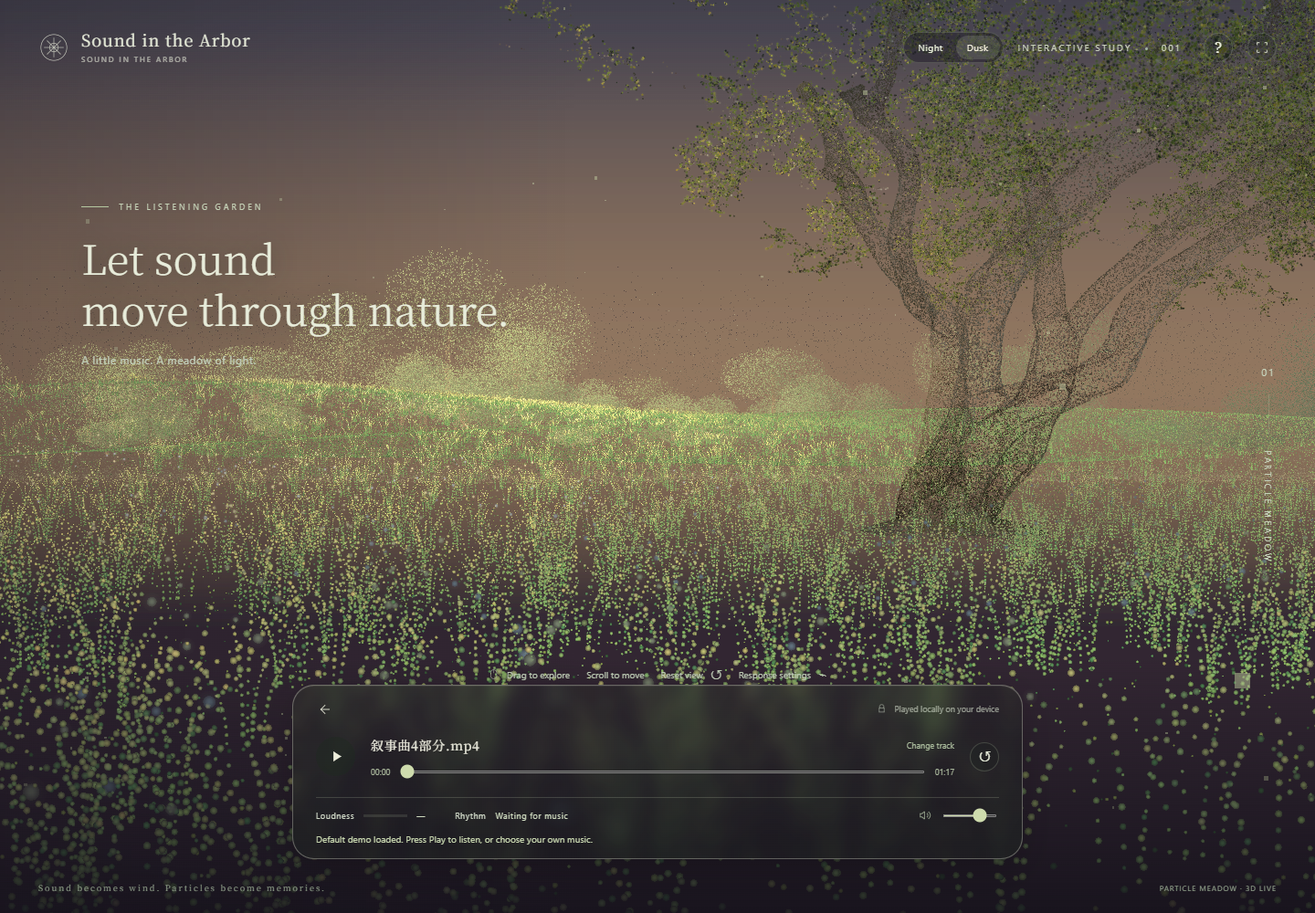
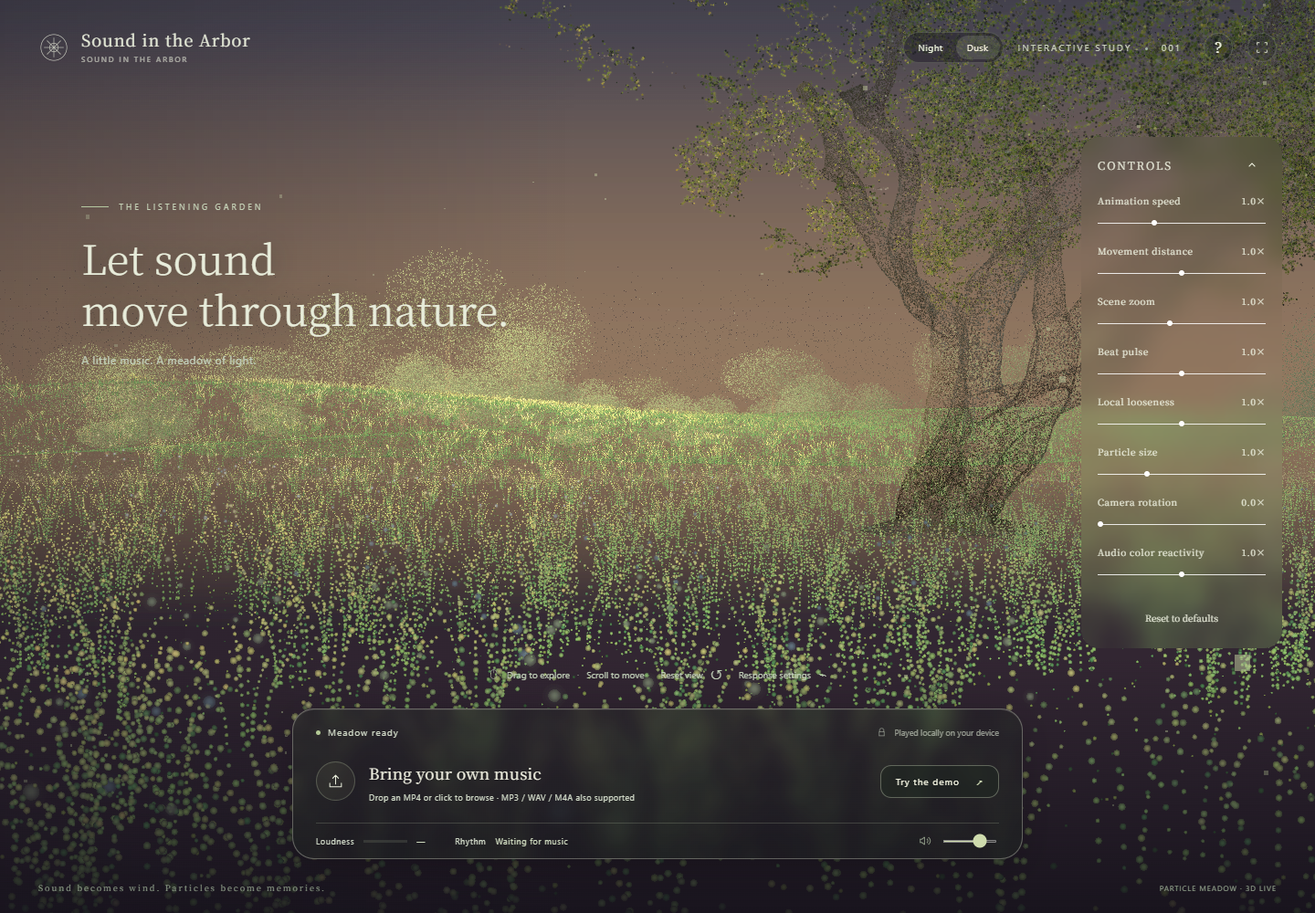
Update audio-reactive particle motion and demo

Changed region(s): [[0.8125, 0.155, 1.0, 0.775], [0.2188, 0.744, 0.7812, 0.93]]

diff --git a/dist/scene.js b/dist/scene.js
@@ -1,3 +1,4 @@
+import {extremeControlMix} from './controls.js';
 import * as THREE from './assets/three.module.js';
 import {buildMeadow} from './particle-meadow.js';
 import {createIndividualAttributes,individualMotionGLSL,sampleMotion} from './particle-motion.js';
@@ -104,7 +105,7 @@ export async function createGarden(canvas) {
       varying float vCaster;void main(){if(vCaster<.5||length(gl_PointCoord-.5)>.5)discard;gl_FragColor=packDepthToRGBA(gl_FragCoord.z);}`});
   const shadowScene=new THREE.Scene();shadowScene.background=new THREE.Color(1,1,1);const casters=new THREE.Points(geometry,shadowMaterial);casters.frustumCulled=false;shadowScene.add(casters);
   renderer.setRenderTarget(shadowTarget);renderer.render(shadowScene,shadowCamera);renderer.setRenderTarget(null);
-  const uniforms={uAmplitude:{value:0},uRelease:{value:0},uFlowFast:{value:0},uFlowSlow:{value:0},uBurstFast:{value:0},uBurstSlow:{value:0},uDriveSlow:{value:0},uFlow:{value:0},uBurst:{value:0},uDrive:{value:0},uDaylight:{value:1},uLow:{value:0},uMid:{value:0},uHigh:{value:0},uPhase:{value:0},uEnergy:{value:0},uScale:{value:800},uMotion:{value:.8},uPulse:{value:0},uFog:{value:new THREE.Color('#302732')},uShadowMap:{value:shadowTarget.texture},uShadowMatrix:{value:shadowMatrix},uSunDirection:{value:new THREE.Vector3()},uSunColor:{value:new THREE.Color()},uSkyColor:{value:new THREE.Color()},uGroundColor:{value:new THREE.Color()}};
+  const uniforms={uExtreme:{value:0},uSize:{value:1},uColorGain:{value:0},uAmplitude:{value:0},uRelease:{value:0},uFlowFast:{value:0},uFlowSlow:{value:0},uBurstFast:{value:0},uBurstSlow:{value:0},uDriveSlow:{value:0},uFlow:{value:0},uBurst:{value:0},uDrive:{value:0},uDaylight:{value:1},uLow:{value:0},uMid:{value:0},uHigh:{value:0},uPhase:{value:0},uEnergy:{value:0},uScale:{value:800},uMotion:{value:.8},uPulse:{value:0},uFog:{value:new THREE.Color('#302732')},uShadowMap:{value:shadowTarget.texture},uShadowMatrix:{value:shadowMatrix},uSunDirection:{value:new THREE.Vector3()},uSunColor:{value:new THREE.Color()},uSkyColor:{value:new THREE.Color()},uGroundColor:{value:new THREE.Color()}};
   updateLighting();
   const material=new THREE.ShaderMaterial({
     uniforms,vertexColors:true,transparent:true,depthWrite:true,depthTest:true,
@@ -112,7 +113,7 @@ export async function createGarden(canvas) {
       uniform float uDaylight;uniform vec3 uSunDirection,uSunColor,uSkyColor,uGroundColor;
       uniform mat4 uShadowMatrix;varying vec3 shadowPosition;
       attribute vec4 aIndividual;attribute float aMotionWeight;attribute float aSize;attribute float aMobility;attribute float aSeed;
-      uniform float uAmplitude,uRelease;uniform float uFlowFast,uFlowSlow,uBurstFast,uBurstSlow,uDriveSlow;uniform float uFlow,uBurst,uDrive;uniform float uPhase,uEnergy,uScale,uMotion,uPulse,uLow,uMid,uHigh;varying vec3 vColor;varying vec3 ambientColor;varying vec3 unlitColor;varying float vBokeh;varying float vPlantOpacity;varying float vDistance;
+      uniform float uExtreme;uniform float uSize;uniform float uAmplitude,uRelease;uniform float uFlowFast,uFlowSlow,uBurstFast,uBurstSlow,uDriveSlow;uniform float uFlow,uBurst,uDrive;uniform float uPhase,uEnergy,uScale,uMotion,uPulse,uLow,uMid,uHigh;varying vec3 vColor;varying vec3 ambientColor;varying vec3 unlitColor;varying float vBokeh;varying float vPlantOpacity;varying float vDistance;
       void main(){vec3 p=position+aDuskOffset*uDaylight;float wave=uPhase*aIndividual.w+aIndividual.x;
         float pick=fract(aIndividual.x*.731+aIndividual.z*.319);
         float pick2=fract(aIndividual.x*1.317+aIndividual.y*.719);
@@ -125,7 +126,7 @@ export async function createGarden(canvas) {
         float middleCover=exp(-pow((p.z+27.0)/23.0,2.0));
         gl_PointSize*=1.0+uDaylight*grass*middleCover*(.30-.38*aGrassTip);
         float sizeVariation=1.0+strength*(flow*(.15+pick*.85)+loosen*(pick2*.7+vBokeh*4.5));
-        gl_PointSize=min(gl_PointSize*sizeVariation,mix(22.0,38.0,vBokeh));
+        gl_PointSize=min(gl_PointSize*sizeVariation,mix(22.0,38.0,vBokeh))*uSize;
         vec3 N=normalize(mat3(modelMatrix)*aLightNormal);
         vec3 worldPosition=(modelMatrix*vec4(p,1.0)).xyz;
         shadowPosition=(uShadowMatrix*vec4(worldPosition,1.0)).xyz;
@@ -156,7 +157,7 @@ export async function createGarden(canvas) {
         }
       }`,
     fragmentShader:`#include <packing>
-      uniform float uDaylight;uniform sampler2D uShadowMap;varying vec3 shadowPosition;
+      uniform float uColorGain;uniform float uDaylight;uniform sampler2D uShadowMap;varying vec3 shadowPosition;
       uniform vec3 uFog;varying vec3 vColor;varying vec3 ambientColor;varying vec3 unlitColor;varying float vBokeh;varying float vPlantOpacity;varying float vDistance;
       void main(){vec2 uv=gl_PointCoord*2.0-1.0;float r=dot(uv,uv);if(r>1.0)discard;
         float alpha=min(1.0,exp(-r*1.5)*.95)*mix(1.0,.34,vBokeh);float fog=1.0-exp(-vDistance*vDistance*0.000025);
@@ -170,6 +171,7 @@ export async function createGarden(canvas) {
         }
         vec3 shaded=mix(unlitColor,mix(ambientColor,vColor,.35+.65*visibility),uDaylight);
         shaded*=mix(1.0,.78,vBokeh);
+        shaded*=vec3(1.0)+uColorGain*vec3(.35,.12,-.2);
         gl_FragColor=vec4(mix(shaded,uFog,fog),alpha);
         #include <tonemapping_fragment>
         #include <colorspace_fragment>
@@ -186,7 +188,7 @@ export async function createGarden(canvas) {
   air.setAttribute('position',new THREE.Float32BufferAttribute(airPositions,3));
   const airMaterial=new THREE.PointsMaterial({color:'#d8dfb2',size:.018,transparent:true,opacity:.4,depthWrite:false});
   const motes=new THREE.Points(air,airMaterial);scene.add(motes);
-  let yaw=0,pitch=0,distance=16.3,hoverX=0,hoverY=0,drag=null,targetYaw=0,targetPitch=0,phase=0,disposed=false,lastMotionTime=performance.now()/1000,lastMotionRate=1;
+  let yaw=0,pitch=0,distance=16.3,hoverX=0,hoverY=0,drag=null,targetYaw=0,targetPitch=0,phase=0,disposed=false,lastMotionTime=performance.now()/1000,lastMotionRate=1,rotationPhase=0;
   const reduced=matchMedia('(prefers-reduced-motion: reduce)').matches;
   let frameSamples=0,frameTotal=0;
   function reset(){targetYaw=0;targetPitch=0;distance=16.3;hoverX=hoverY=0;}
@@ -227,21 +229,27 @@ export async function createGarden(canvas) {
     });
   }
   window.gardenMotionDebug=()=>({enabled:debugOn,clock:phase,samples:debugData});
-  function render(dt,features,motion=.8){
+  function render(dt,features,motion=.8,controls={}){
     if(disposed)return;
     updateLighting();
     frameTotal+=dt;frameSamples++;
     if(frameSamples===180){if(frameTotal/frameSamples>.04&&renderer.getPixelRatio()>.85){renderer.setPixelRatio(Math.max(.85,renderer.getPixelRatio()-.15));resize();}frameSamples=0;frameTotal=0;}
     const smoothing=1-Math.exp(-dt*4);yaw+=((targetYaw+hoverX)-yaw)*smoothing;pitch+=((targetPitch+hoverY)-pitch)*smoothing;
-    camera.position.set(Math.sin(yaw)*distance,1.72+Math.sin(pitch)*distance,-10+Math.cos(yaw)*distance);
+    rotationPhase+=dt*(controls.rotation||0)*.15;
+    const viewYaw=yaw+Math.sin(rotationPhase)*.15*Math.min(1,controls.rotation||0),viewDistance=Math.max(8,Math.min(24,distance/(controls.zoom??1)));
+    camera.position.set(Math.sin(viewYaw)*viewDistance,1.72+Math.sin(pitch)*viewDistance,-10+Math.cos(viewYaw)*viewDistance);
     camera.lookAt(0,1.72,-10);
     uniforms.uFlowFast.value=features.flowFast||0;uniforms.uFlowSlow.value=features.flowSlow||0;
     uniforms.uBurstFast.value=features.burstFast||0;uniforms.uBurstSlow.value=features.burstSlow||0;uniforms.uDriveSlow.value=features.driveSlow||0;
     uniforms.uFlow.value=features.flow||0;uniforms.uBurst.value=features.burst||0;uniforms.uDrive.value=features.drive||0;
-    const motionNow=performance.now()/1000,motionRate=features.oscillatorRate||1;
+    const motionNow=performance.now()/1000,motionRate=(features.oscillatorRate||1)*(controls.animationSpeed??1);
     phase+=(motionNow-lastMotionTime)*(lastMotionRate+motionRate)*.5;lastMotionTime=motionNow;lastMotionRate=motionRate;
-    uniforms.uAmplitude.value=features.motionAmplitude||0;uniforms.uRelease.value=features.structuralRelease||0;
-    uniforms.uLow.value=features.low||0;uniforms.uMid.value=features.mid||0;uniforms.uHigh.value=features.high||0;uniforms.uPhase.value=phase;uniforms.uEnergy.value=features.energy;uniforms.uPulse.value=features.pulse;uniforms.uMotion.value=motion*(reduced?.3:1);
+    uniforms.uAmplitude.value=(features.motionAmplitude||0)*Math.max(0,1+((controls.beatPulse??1)-1)*(features.pulse||0)*.35);uniforms.uRelease.value=(features.structuralRelease||0)*(controls.looseness??1);
+    uniforms.uSize.value=controls.particleSize??1;uniforms.uColorGain.value=((controls.color??1)-1)*(features.energy||0)*.5;
+    uniforms.uLow.value=features.low||0;uniforms.uMid.value=features.mid||0;uniforms.uHigh.value=features.high||0;uniforms.uPhase.value=phase;uniforms.uEnergy.value=features.energy;uniforms.uPulse.value=features.pulse;uniforms.uMotion.value=motion*(controls.distance??1)*(reduced?.3:1);
+    const extremeTarget=extremeControlMix(controls)*Math.min(1,(features.motionAmplitude||0)/.2);
+    uniforms.uExtreme.value+=(extremeTarget-uniforms.uExtreme.value)*(1-Math.exp(-dt*2.5));
+    if(extremeTarget===0&&uniforms.uExtreme.value<1e-5)uniforms.uExtreme.value=0;
     updateDebug(features);
     motes.position.y=Math.sin(phase*.07)*.07;airMaterial.opacity=.28+features.energy*.2;
     renderer.setRenderTarget(bloomTarget);renderer.render(scene,camera);renderer.setRenderTarget(null);renderer.render(bloomScene,bloomCamera);
@@ -251,5 +259,5 @@ export async function createGarden(canvas) {
   function setTimeOfDay(mode){
     const daylight=mode==='dusk';uniforms.uDaylight.value=daylight?1:0;sky.visible=daylight;
   }
-  return {render,reset,setTimeOfDay,count:positions.length/3,motionInfo:()=>({flow:uniforms.uFlow.value,burst:uniforms.uBurst.value,drive:uniforms.uDrive.value,restPositionsImmutable:true,flowFast:uniforms.uFlowFast.value,flowSlow:uniforms.uFlowSlow.value,burstFast:uniforms.uBurstFast.value,burstSlow:uniforms.uBurstSlow.value,individualAttributes:true,trunkParticipates:true,clock:uniforms.uPhase.value}),getCamera:()=>camera.position.toArray(),dispose(){disposed=true;observer.disconnect();shadowTarget.dispose();shadowMaterial.dispose();sky.geometry.dispose();skyMaterial.dispose();bloomTarget.dispose();bloomMaterial.dispose();bloomQuad.geometry.dispose();geometry.dispose();material.dispose();glowMaterial.dispose();air.dispose();airMaterial.dispose();renderer.dispose();}};
+  return {render,reset,setTimeOfDay,count:positions.length/3,motionInfo:()=>({extremeMix:uniforms.uExtreme.value,particleSize:uniforms.uSize.value,motionScale:uniforms.uMotion.value,colorGain:uniforms.uColorGain.value,amplitude:uniforms.uAmplitude.value,localLooseness:uniforms.uRelease.value,flow:uniforms.uFlow.value,burst:uniforms.uBurst.value,drive:uniforms.uDrive.value,restPositionsImmutable:true,flowFast:uniforms.uFlowFast.value,flowSlow:uniforms.uFlowSlow.value,burstFast:uniforms.uBurstFast.value,burstSlow:uniforms.uBurstSlow.value,individualAttributes:true,trunkParticipates:true,clock:uniforms.uPhase.value}),getCamera:()=>camera.position.toArray(),dispose(){disposed=true;observer.disconnect();shadowTarget.dispose();shadowMaterial.dispose();sky.geometry.dispose();skyMaterial.dispose();bloomTarget.dispose();bloomMaterial.dispose();bloomQuad.geometry.dispose();geometry.dispose();material.dispose();glowMaterial.dispose();air.dispose();airMaterial.dispose();renderer.dispose();}};
 }

diff --git a/dist/style.css b/dist/style.css
@@ -30,3 +30,34 @@
 
 /* Compact unframed return arrow; preserve the original player dimensions. */
 .music-panel{width:min(800px,calc(100% - 88px));padding:18px 25px 12px}.music-return{width:20px;height:14px;min-height:0;padding:0;border:0;border-radius:0;background:transparent}.music-return svg{width:16px;height:16px}.music-return:hover{background:transparent;color:#fff}.panel-topline{min-height:14px}.scene-tools{bottom:244px}@media(max-width:700px){.music-panel{width:calc(100% - 36px);padding:15px 17px 12px}.scene-tools{bottom:237px}}@media(min-width:1600px){.scene-tools{bottom:260px}}@media(max-height:650px) and (min-width:701px){.scene-tools{bottom:227px}}
+
+/* Transparent visual controls and hover-revealed music player. */
+.visual-controls{position:absolute;right:30px;top:150px;width:216px;max-height:calc(100svh - 195px);overflow:auto;z-index:8;background:transparent;color:#edf0df;text-shadow:0 1px 5px #000,0 1px 15px #0009;font-size:10px;padding:6px 0 12px;border-left:1px solid #e1e8ce30;padding-left:18px}.visual-controls-heading{display:flex;align-items:center;justify-content:space-between;margin-bottom:16px}.visual-controls h2{font:600 12px/1.4 'Segoe UI',sans-serif;letter-spacing:2px;margin:0}.visual-controls-heading button{font-size:22px;width:30px;height:30px}.visual-controls label{display:flex;justify-content:space-between;gap:8px;margin:15px 0 9px;letter-spacing:.6px}.visual-controls output{font-variant-numeric:tabular-nums}.visual-controls input{display:block;width:100%;margin:0;height:4px}.visual-reset{display:block;border:1px solid #e2e8cc55;border-radius:10px;width:100%;padding:10px;margin-top:22px;font-size:10px;background:transparent}.visual-reset:hover{background:#e2e8cc15}
+.player-dock{position:absolute;bottom:59px;left:50%;transform:translateX(-50%);width:min(800px,calc(100% - 88px));z-index:6;pointer-events:auto}.player-dock .music-panel{position:absolute;bottom:0;left:0;transform:none;width:100%;transition:opacity .25s,transform .3s;z-index:1}.player-reveal{display:none;position:absolute;bottom:0;left:50%;transform:translateX(-50%);border:1px solid #dce7bf50;border-radius:18px;padding:9px 20px;background:#18221c50;backdrop-filter:blur(7px);font-size:11px;white-space:nowrap}.player-collapsed .music-panel{opacity:0;pointer-events:none;transform:translateY(12px);visibility:hidden}.player-collapsed .player-reveal{display:block}
+@media(min-width:1200px){.visual-controls{right:36px;width:220px}}
+@media(min-width:1600px){.player-dock{bottom:75px}}
+@media(max-width:700px){.visual-controls{right:20px;top:118px;width:186px;max-height:calc(100svh - 210px);padding-left:12px}.visual-controls-heading{margin-bottom:4px}.visual-controls label{font-size:9px;margin-top:12px}.player-dock{width:calc(100% - 36px);bottom:55px}}
+@media(max-height:650px) and (min-width:701px){.player-dock{bottom:45px}.visual-controls{top:108px;max-height:calc(100svh - 145px)}}
+
+/* Thin white controls sliders. */
+.visual-controls input[type=range]{appearance:none;-webkit-appearance:none;background:transparent;accent-color:#fff;height:16px;cursor:pointer}.visual-controls input[type=range]::-webkit-slider-runnable-track{height:1px;border:0;background:rgba(255,255,255,.85)}.visual-controls input[type=range]::-webkit-slider-thumb{appearance:none;-webkit-appearance:none;width:6px;height:6px;border:0;border-radius:50%;background:#fff;margin-top:-2.5px;box-shadow:none}.visual-controls input[type=range]::-moz-range-track{height:1px;border:0;background:rgba(255,255,255,.85)}.visual-controls input[type=range]::-moz-range-progress{height:1px;background:#fff}.visual-controls input[type=range]::-moz-range-thumb{width:6px;height:6px;border:0;border-radius:50%;background:#fff}
+
+/* Controls typography follows the scene title; white interaction states. */
+.visual-controls,.visual-controls h2,.visual-controls button,.visual-controls label,.visual-controls output{font-family:"Noto Serif SC","Songti SC",SimSun,serif;font-weight:300;text-shadow:none}.visual-controls h2{font-weight:300}.visual-controls input[type=range]{accent-color:#fff;color:#fff}.visual-controls input[type=range]:focus-visible{outline:1px solid rgba(255,255,255,.8);outline-offset:5px}.visual-controls input[type=range]::-webkit-slider-thumb:active{background:#fff}.visual-controls button:focus-visible{outline:1px solid #fff}
+
+.visual-controls-heading{cursor:pointer}.visual-controls-heading button{font-weight:300;line-height:1;font-size:20px}.visual-controls-heading:hover{color:#fff}
+
+/* Rounded frosted controls without an outlined frame. */
+.visual-controls{border:0;border-left:0;border-radius:20px;padding:16px 18px;background:rgba(24,30,28,.24);backdrop-filter:blur(12px);-webkit-backdrop-filter:blur(12px);box-shadow:0 8px 28px rgba(0,0,0,.10)}.visual-reset{border:0;border-radius:12px;background:rgba(235,240,221,.06)}.visual-reset:hover{background:rgba(235,240,221,.12)}@media(max-width:700px){.visual-controls{padding:12px 14px}}
+
+/* White translucent glass controls. */
+.visual-controls{background:rgba(255,255,255,.16)}
+
+/* Colorless glass: blur the scene without adding any color layer. */
+.visual-controls{background:transparent;box-shadow:none}.visual-reset{background:transparent}.visual-reset:hover{background:transparent}
+
+/* Collapsed controls leave only the right-hand circular arrow. */
+.visual-controls.controls-collapsed{width:32px;height:32px;padding:0;border:0;border-radius:50%;background:transparent;box-shadow:none;backdrop-filter:none;-webkit-backdrop-filter:none;overflow:visible}.controls-collapsed .visual-controls-heading{margin:0;width:32px;height:32px}.controls-collapsed .visual-controls-heading h2{display:none}.controls-collapsed #toggleControls{display:grid;place-items:center;width:32px;height:32px;padding:0;border:1px solid rgba(242,246,232,.55);border-radius:50%;background:transparent;font-size:17px}.controls-collapsed #toggleControls:hover{background:rgba(255,255,255,.07)}
+
+/* SVG chevron is centered independently of font metrics. */
+#toggleControls{display:grid;place-items:center;padding:0}#toggleControls svg{display:block;width:16px;height:16px;fill:none;stroke:currentColor;stroke-width:1.5;stroke-linecap:round;stroke-linejoin:round}.controls-collapsed #toggleControls svg{width:16px;height:16px;transform:translateY(-.33px)}

diff --git a/dist/index.html b/dist/index.html
@@ -51,13 +51,14 @@
       <div class="panel-bottom"><div class="audio-readings"><span>Loudness <span class="meter" aria-hidden="true"><i id="energyMeter"></i></span><span id="energyText">—</span></span><span>Rhythm <span id="tempoText">Waiting for music</span></span></div><label class="volume-control" for="volume"><svg viewBox="0 0 24 24" aria-hidden="true"><path d="M11 5 6 9H3v6h3l5 4zM15 8c3 2 3 6 0 8m3-11c5 4 5 10 0 14"/></svg><input id="volume" type="range" min="0" max="1" value="0.75" step="0.01" aria-label="Playback volume"></label></div>
       <p id="message" class="message" role="status" aria-live="polite"></p>
     </section>
+<aside id="visualControls" class="visual-controls" aria-label="Visual controls"><div class="visual-controls-heading"><h2>CONTROLS</h2><button id="toggleControls" aria-expanded="true" aria-label="Collapse controls">−</button></div><div id="visualControlsBody"><label for="vc-animationSpeed">Animation speed<output id="vo-animationSpeed">1.0×</output></label><input id="vc-animationSpeed" type="range" min="0" max="3" step="0.05" value="1"><label for="vc-distance">Movement distance<output id="vo-distance">1.0×</output></label><input id="vc-distance" type="range" min="0" max="2" step="0.05" value="1"><label for="vc-zoom">Scene zoom<output id="vo-zoom">1.0×</output></label><input id="vc-zoom" type="range" min="0.7" max="1.4" step="0.05" value="1"><label for="vc-beatPulse">Beat pulse<output id="vo-beatPulse">1.0×</output></label><input id="vc-beatPulse" type="range" min="0" max="2" step="0.05" value="1"><label for="vc-looseness">Local looseness<output id="vo-looseness">1.0×</output></label><input id="vc-looseness" type="range" min="0" max="2" step="0.05" value="1"><label for="vc-particleSize">Particle size<output id="vo-particleSize">1.0×</output></label><input id="vc-particleSize" type="range" min="0.4" max="2.5" step="0.05" value="1"><label for="vc-rotation">Camera rotation<output id="vo-rotation">0.0×</output></label><input id="vc-rotation" type="range" min="0" max="2" step="0.05" value="0"><label for="vc-color">Audio color reactivity<output id="vo-color">1.0×</output></label><input id="vc-color" type="range" min="0" max="2" step="0.05" value="1"><button id="resetVisualControls" class="visual-reset">Reset to defaults</button></div></aside>
     <footer class="footer"><span>Sound becomes wind. Particles become memories.</span><span id="renderStatus">Preparing the meadow…</span></footer>
     <div id="dropOverlay" class="drop-overlay" hidden><div><span>＋</span><p>Drop your music here</p><small>Release to load · Your file is never uploaded</small></div></div>
     <div id="renderError" class="render-error" hidden><h2>The meadow could not be displayed</h2><p>This scene requires WebGL. Use a browser with hardware acceleration enabled, or reload the page.</p><button onclick="location.reload()">Reload</button></div>
     <input id="fileInput" type="file" accept=".mp4,.m4a,.mp3,.wav,.ogg,.webm,audio/*,video/mp4,video/webm" hidden>
     <video id="media" preload="metadata" playsinline hidden></video>
   </main>
-  <dialog id="helpDialog"><button id="closeHelp" class="icon-button" aria-label="Close guide">×</button><span class="eyebrow">A SMALL GUIDE</span><h2>Listen. The meadow is breathing.</h2><p>Drop or choose a local MP4 or audio file, then press Play.</p><ul><li>Louder sound creates larger points; softer sound creates smaller points.</li><li>Denser note onsets increase movement speed. Sparse or sustained sound lets it settle.</li><li>Drag or use arrow keys to explore. Scroll to move closer. Press R to reset.</li><li>Press Space to play or pause. Response settings adjust sensitivity and movement.</li></ul><p class="help-note">Rhythm is estimated live and may take several seconds to adapt to complex or legato music. Files remain in this browser and must be selected again after a reload.</p><button id="helpDone" class="demo-button">Enter the meadow →</button></dialog>
+  <dialog id="helpDialog"><button id="closeHelp" class="icon-button" aria-label="Close guide">×</button><span class="eyebrow">A SMALL GUIDE</span><h2>Listen. The meadow is breathing.</h2><p>Drop or choose a local MP4 or audio file, then press Play.</p><ul><li>Louder sound creates larger points; softer sound creates smaller points.</li><li>Music changes local movement amplitude. Controls let you adjust speed and distance.</li><li>Drag or use arrow keys to explore. Scroll to move closer. Press R to reset.</li><li>Press Space to play or pause. Response settings adjust sensitivity and movement.</li></ul><p class="help-note">Rhythm is estimated live and may take several seconds to adapt to complex or legato music. Files remain in this browser and must be selected again after a reload.</p><button id="helpDone" class="demo-button">Enter the meadow →</button></dialog>
   <script type="module" src="./app.js"></script>
 </body>
 </html>

diff --git a/dist/controls.js b/dist/controls.js
@@ -1,0 +1,26 @@
+export const visualControls={animationSpeed:1,distance:1,zoom:1,beatPulse:1,looseness:1,particleSize:1,rotation:0,color:1};
+export function initVisualControls(media){
+ const defaults={...visualControls};
+ for(const key of Object.keys(defaults)){const slider=document.getElementById('vc-'+key),out=document.getElementById('vo-'+key);slider.addEventListener('input',()=>{visualControls[key]=Number(slider.value);out.textContent=visualControls[key].toFixed(1)+'×';});}
+ document.getElementById('resetVisualControls').addEventListener('click',()=>{for(const [key,value]of Object.entries(defaults)){visualControls[key]=value;document.getElementById('vc-'+key).value=value;document.getElementById('vo-'+key).textContent=value.toFixed(1)+'×';}});
+ const body=document.getElementById('visualControlsBody'),toggle=document.getElementById('toggleControls');
+ function expand(open){document.getElementById('visualControls').classList.toggle('controls-collapsed',!open);body.hidden=!open;toggle.setAttribute('aria-expanded',String(open));toggle.setAttribute('aria-label',open?'Collapse controls':'Expand controls');toggle.innerHTML='<svg viewBox="0 0 24 24" aria-hidden="true"><path d="'+(open?'M7 14l5-5 5 5':'M7 10l5 5 5-5')+'"/></svg>';toggle.title=open?'Collapse controls':'Expand controls';}
+ expand(innerWidth>700);toggle.addEventListener('click',()=>expand(body.hidden));
+ document.querySelector('.visual-controls-heading').addEventListener('click',e=>{if(!e.target.closest('button'))expand(body.hidden);});
+ const panel=document.querySelector('.music-panel'),dock=document.createElement('div');dock.id='playerDock';dock.className='player-dock';panel.before(dock);dock.append(panel);
+ const tab=document.createElement('button');tab.className='player-reveal';tab.textContent='Music player ↑';tab.setAttribute('aria-label','Expand music player');tab.setAttribute('aria-expanded','true');dock.append(tab);
+ let timer,pointer=false,touchOpen=false;
+ function reveal(open){dock.classList.toggle('player-collapsed',!open&&!media.paused&&!media.ended);tab.setAttribute('aria-expanded',String(!dock.classList.contains('player-collapsed')));}
+ function schedule(){clearTimeout(timer);timer=setTimeout(()=>{if(!pointer&&!dock.contains(document.activeElement)&&!touchOpen)reveal(false);},1800);}
+ dock.addEventListener('pointerenter',e=>{if(e.pointerType!=='touch'){pointer=true;clearTimeout(timer);reveal(true);}});
+ dock.addEventListener('pointerleave',()=>{pointer=false;touchOpen=false;schedule();});
+ dock.addEventListener('focusin',()=>reveal(true));dock.addEventListener('focusout',schedule);
+ tab.addEventListener('click',()=>{touchOpen=true;reveal(true);});
+ media.addEventListener('play',()=>{if(dock.contains(document.activeElement))document.activeElement.blur();touchOpen=false;schedule();});
+ for(const name of ['pause','ended','emptied'])media.addEventListener(name,()=>{clearTimeout(timer);reveal(true);});
+ document.addEventListener('pointerdown',e=>{if(!dock.contains(e.target)){touchOpen=false;schedule();}});
+ const observer=new ResizeObserver(()=>dock.style.height=panel.getBoundingClientRect().height+'px');observer.observe(panel);
+ window.gardenVisualControls=()=>({...visualControls});
+}
+
+export function extremeControlMix(c){const smooth=x=>{x=Math.max(0,Math.min(1,x));return x*x*(3-2*x);};return Math.min(smooth(((c.animationSpeed??1)-1.6)/1.4),smooth(((c.distance??1)-1.3)/.7),smooth(((c.looseness??1)-1.3)/.7));}

diff --git a/dist/expressive-motion.js b/dist/expressive-motion.js
@@ -1,29 +1,22 @@
 const clamp=x=>Math.max(0,Math.min(1,x));
 const follow=(a,b,dt,tau)=>b+(a-b)*Math.exp(-dt/tau);
+// Music changes local activity, never a timed scatter/reassembly state.
 export class ExpressiveMotion{
  constructor(){this.output={};this.reset();}
- reset(){this.sustain=0;this.fastRhythm=0;this.triggerCount=0;Object.assign(this.output,{oscillatorRate:1,rms:0,smoothedEnergy:0,motionAmplitude:0,structuralRelease:0,flow:0,burst:0,drive:0,flowFast:0,flowSlow:0,burstFast:0,burstSlow:0,driveSlow:0});}
+ reset(){this.triggerCount=0;Object.assign(this.output,{oscillatorRate:1,rms:0,smoothedEnergy:0,motionAmplitude:0,structuralRelease:0,flow:0,burst:0,drive:0,flowFast:0,flowSlow:0,burstFast:0,burstSlow:0,driveSlow:0});}
  update(wave,spectrum,dt,features={},active=true){
  dt=Math.max(0,Math.min(.5,dt));const o=this.output;let rms=0;
  if(active&&wave){for(const x of wave)rms+=x*x;rms=Math.sqrt(rms/Math.max(1,wave.length));}
- // Absolute dBFS calibration: no peak normalization of quiet passages.
- const energy=active?clamp((20*Math.log10(Math.max(1e-8,rms))+48)/42):0;
- o.rms=rms;o.smoothedEnergy=follow(o.smoothedEnergy,energy,dt,energy>o.smoothedEnergy?.18:.7);
- this.sustain=follow(this.sustain,o.smoothedEnergy,dt,o.smoothedEnergy>this.sustain?3:1.1);
- const audible=active?clamp(rms/.003):0;
- const amplitude=audible*(.035+.5*o.smoothedEnergy+.16*o.smoothedEnergy*clamp(features.pulse||0));
- const high=clamp((this.sustain-.54)/.22);
- // Require continuous fast activity, not a single pulse. Weak music keeps its existing response.
- const fast=active&&features.ready!==false?clamp(((features.speed||0)-.52)/.28):0;
- this.fastRhythm=follow(this.fastRhythm,fast,dt,fast>this.fastRhythm?1.1:.6);
- const gate=clamp((o.smoothedEnergy-.50)/.18);
- const rhythmicRelease=this.fastRhythm*this.fastRhythm*gate;
- const release=Math.max(high*high*(3-2*high),rhythmicRelease);
- o.oscillatorRate=follow(o.oscillatorRate,1+3*this.fastRhythm*gate,dt,.3);
- o.motionAmplitude=follow(o.motionAmplitude,amplitude,dt,amplitude>o.motionAmplitude?.16:.65);
- o.structuralRelease=follow(o.structuralRelease,active?release:0,dt,release>o.structuralRelease?1.8:.85);
- if(!active&&o.motionAmplitude<1e-5&&o.structuralRelease<1e-5){o.motionAmplitude=0;o.structuralRelease=0;}
- o.flow=o.flowFast=o.flowSlow=o.motionAmplitude;o.burst=o.burstFast=o.burstSlow=o.structuralRelease;
- o.drive=o.driveSlow=o.smoothedEnergy;o.normalizedEnergy=energy;return o;
+ // Fixed logarithmic range suited to the provided recording; no recent-peak normalization.
+ const energy=active?clamp(Math.log1p(rms/.006)/Math.log1p(.12/.006)):0;
+ const audible=active?clamp((rms-.0005)/.0025):0;
+ o.rms=rms;o.smoothedEnergy=follow(o.smoothedEnergy,energy,dt,energy>o.smoothedEnergy?.22:.45);
+ const target=audible*(.035+.9*o.smoothedEnergy);
+ o.motionAmplitude=follow(o.motionAmplitude,target,dt,target>o.motionAmplitude?.28:.48);
+ // Compatibility metric now means small local looseness, not structural dissolution.
+ o.structuralRelease=follow(o.structuralRelease,active?o.smoothedEnergy*.2*audible:0,dt,.6);
+ if(o.motionAmplitude<1e-5&&o.structuralRelease<1e-5&&(!active||rms<.0005)){o.motionAmplitude=0;o.structuralRelease=0;}
+ o.oscillatorRate=1;o.flow=o.flowFast=o.flowSlow=o.motionAmplitude;
+ o.burst=o.burstFast=o.burstSlow=o.structuralRelease;o.drive=o.driveSlow=o.smoothedEnergy;o.normalizedEnergy=energy;return o;
  }
 }

diff --git a/dist/particle-motion.js b/dist/particle-motion.js
@@ -8,8 +8,9 @@ export function sampleMotion(a,group,time,amplitude,release,motion=1,weight=1){
  const [phase,sensitivity,pick,frequency]=a,grass=group<.5,vertical=pick>(grass?.28:.75);
  const raw=[vertical?.22*Math.sin(phase*2.31):1,vertical?1:.23*Math.sin(phase*3.17),0];
  const norm=Math.hypot(...raw),axis=raw.map(x=>x/norm);
- const range=(grass?1.2:2.2)*amplitude+release*release*(grass?7:14);
- const extent=range*(.65+pick*.7)*sensitivity*motion*(group>2.5?0:1)*(group===1&&weight<.1?1.7:1);
+ const range=(grass?.55:.75)*amplitude+Math.min(.4,release)*(grass?.12:.18);
+ const radius=grass?.65:group===1&&weight<.1?.22:.85;
+ const extent=Math.min(radius,range*(.65+pick*.7)*sensitivity)*motion*(group>2.5?0:1);
  return {axis,extent,offset:axis.map(x=>x*extent*Math.sin(time*frequency*1.6+phase))};
 }
 export const individualMotionGLSL=`
@@ -18,7 +19,18 @@ export const individualMotionGLSL=`
  float phase=aIndividual.x;
  bool vertical=aIndividual.z>mix(.75,.28,grass);
  vec3 axis=normalize(vec3(vertical?.22*sin(phase*2.31):1.0,vertical?1.0:.23*sin(phase*3.17),0.0));
- float range=mix(2.2,1.2,grass)*uAmplitude+uRelease*uRelease*mix(14.0,7.0,grass);
- float extent=range*(.65+aIndividual.z*.7)*aIndividual.y*strength*(aMobility>.5&&aMobility<1.5&&aMotionWeight<.1?1.7:1.0);
+ float range=mix(.75,.55,grass)*uAmplitude+min(.4,uRelease)*mix(.18,.12,grass);
+ float radius=grass>.5?.65:(aMobility>.5&&aMobility<1.5&&aMotionWeight<.1?.22:.85);
+ float extent=min(radius,range*(.65+aIndividual.z*.7)*aIndividual.y)*strength;
  p+=axis*(extent*sin(uPhase*aIndividual.w*1.6+phase));
+ // Explicit user-selected extremes only; defaults retain the fixed-axis reference motion.
+ vec3 rest=position+aDuskOffset*uDaylight;
+ float t=uPhase*aIndividual.w;
+ vec3 weave=vec3(sin(t*.83+phase),sin(t*1.13+phase*2.7),sin(t*.61+phase*1.9));
+ vec3 wild=rest+weave*vec3(18.0,12.0,6.0)*aIndividual.y*min(1.0,strength);
+ vec3 toward=cameraPosition-rest;float reach=length(toward);
+ float front=step(.85,aIndividual.z)*min(1.0,strength);
+ float travel=max(0.0,reach-2.5)*max(0.0,sin(t*.9+phase));
+ wild=mix(wild,rest+toward/max(.001,reach)*travel,front*.92);
+ p=mix(p,wild,uExtreme*step(.001,aMotionWeight));
 `;

diff --git a/dist/app.js b/dist/app.js
@@ -1,3 +1,4 @@
+import {visualControls,initVisualControls} from './controls.js';
 import {createGarden} from './scene.js';
 import {AudioFeatures} from './audio-features.js';
 import {ExpressiveMotion} from './expressive-motion.js';
@@ -6,6 +7,7 @@ const media=$('media'),fileInput=$('fileInput'),features=new AudioFeatures(),exp
 let garden,audioContext,analyser,source,gainNode,wave,spectrum,objectURL,loadId=0,playing=false,loading=false,lastFrame=performance.now(),lastUI=0;
 let currentFile=null,noAudioSince=null,rhythmNode=null,rhythmData=null,lastAudioTime=null;
 const state={energy:0,speed:0,pulse:0,ready:false};
+initVisualControls(media);
 const format=s=>Number.isFinite(s)?`${Math.floor(s/60).toString().padStart(2,'0')}:${Math.floor(s%60).toString().padStart(2,'0')}`:'00:00';
 function message(text='',error=false){$('message').textContent=text;$('message').classList.toggle('error',error);}
 function status(text){$('status').textContent=text;$('statusDot').classList.toggle('playing',playing);}
@@ -95,7 +97,7 @@ function frame(now){
     if(state.energy<.012){noAudioSince??=audioContext.currentTime;if(audioContext.currentTime-noAudioSince>7)message('No sound detected: this may be a silent passage or an MP4 without a usable audio track. Try another file.');}else{if(noAudioSince&&$('message').textContent.startsWith('No sound detected'))message();noAudioSince=null;}
   }else {Object.assign(state,features.idle(dt));for(const key of ['low','mid','high'])state[key]=(state[key]||0)*Math.exp(-dt*4);}
   Object.assign(state,expressive.update(wave,spectrum,motionDt,state,!!(playing&&analyser&&audioContext?.state==='running'&&!media.seeking)));
-  garden?.render(dt,state,Number($('motion').value));
+  garden?.render(dt,state,Number($('motion').value),visualControls);
   if(now-lastUI>120){
     lastUI=now;$('energyMeter').style.transform=`scaleX(${state.energy.toFixed(3)})`;
     $('energyText').textContent=playing?(state.energy<.12?'Soft':state.energy<.4?'Medium':'Strong'):'—';

diff --git a/README.md b/README.md
@@ -11,7 +11,7 @@ This revision focuses on three connected problems: grass density and volume, con
 - **Lighting choice:** Night retains the dark purple background and luminous point-cloud style. Dusk uses a low-angle warm directional light, environment fill, approximate particle normals, and a muted warm sky. After visual review, a stronger yellow-green treatment was rejected in favor of softer gray-gold transitions. Tree and grass shadows use a static point-cloud depth map.
 - **Player surface:** frosted glass softly reveals a little of the particle background while keeping labels and controls readable.
 
-![Current Dusk scene and music player with the top-left return arrow](docs/screenshot.png)
+![Current Dusk scene with the particle controls panel and music player](docs/screenshot.png)
 
 [Night mode](docs/night.png) · [Terrain before](docs/terrain-before.png) · [Terrain after, same camera](docs/terrain-after.png)
 
@@ -19,7 +19,20 @@ This revision focuses on three connected problems: grass density and volume, con
 
 Building on the existing player, a small, unframed arrow now appears in its top-left corner after loading the demo or a personal track, replacing the status text in that position. Selecting it stops playback and returns to **Bring your own music**, where another local recording can be selected. The panel keeps its original width, with a more transparent background and clearer rounded corners. The existing scene, lighting modes, camera controls and playback controls are retained.
 
-The screenshot above shows the current saved interface. See also the [current mobile player](docs/mobile.png). The recent experimental stronger breakup and near-camera particle changes were reverted; this saved version retains the preceding particle behavior.
+The screenshot above shows the current saved interface. See also the [current mobile player](docs/mobile.png). The default response preserves the landscape structure. Wider interwoven movement and near-camera motion are available only through deliberate extreme settings in the new Controls panel.
+
+## Particle controls and an unobstructed listening view
+
+In response to users asking for more control over the particle experience, a **Controls** panel has been added on the right. Listeners can adjust animation speed, movement distance, scene zoom, beat pulse, local looseness, particle size, camera rotation and audio color reactivity while music plays. **Reset to defaults** restores the original settings. The panel uses fine white sliders, the same serif typeface as the main title, and a colorless frosted background with rounded corners.
+
+Both panels can be folded away to reduce visual obstruction and support a more immersive audiovisual experience:
+
+- **Controls panel:** select the title row or arrow to collapse it. Only a small circular arrow remains on the right; select it to reopen the panel. The panel starts collapsed on smaller screens.
+- **Music player:** during playback, it automatically folds away after a short delay when the pointer is outside its area. Moving the pointer back into the original player area reveals it; moving away lets it fold again. Pausing keeps playback controls visible. On touchscreens, select the small **Music player** tab to reveal them.
+
+Default settings retain bounded, independent particle movement around a stable landscape. Raising animation speed, movement distance and local looseness near their maximum values deliberately blends in wider, interwoven trajectories and a sparse near-camera approach. Lowering these settings or resetting them smoothly restores the default movement. This effect is under the listener's control rather than being forced by every fast passage.
+
+[Controls folded to the circular arrow](docs/controls-folded.png)
 
 ## Run in VS Code
 
@@ -40,13 +53,14 @@ Open **http://127.0.0.1:4173**. Do not open the HTML directly; the application u
 - Drop an MP4 or audio file, or click **Bring your own music**. Press Play or Space to start/pause; use the timeline to seek.
 - **Try the demo** loads the creator-selected 77.72-second recording (`叙事曲4部分.mp4`); press Play after loading.
 - **Response settings** controls sensitivity and movement; zero movement disables swaying.
+- **Controls** on the right provides eight live visual settings and a reset button. Both the Controls panel and music player can fold away as described above.
 - Volume changes playback output without changing the analysis input.
 
 Selected files remain local in the browser and are not uploaded or retained after reloading.
 
 ## Audio response
 
-The latest revision improves particle movement speed and its response to music. Quiet passages retain gentle movement, while sustained fast rhythms increase oscillation speed and structural release. Trunk and woody-branch movement is more visible. Grass, tree crowns, branches, trunks and distant trees move along independent fixed axes in the XY plane, with different phases, frequencies, base amplitudes and sensitivities.
+The default audio response smoothly changes local movement amplitude while preserving the landscape. Quiet passages retain gentle movement, and near-silence lets it settle. Musical tempo alone does not automatically accelerate or dissolve the scene; listeners can adjust speed and looseness through Controls. Grass, tree crowns, branches, trunks and distant trees move along independent fixed axes in the XY plane, with different phases, frequencies, base amplitudes and sensitivities.
 
 Each participating landscape particle follows the same core rule:
 
@@ -58,9 +72,9 @@ Each participating landscape particle follows the same core rule:
 - **φ_i:** its independent initial phase.
 - **D_i:** its fixed movement direction vector.
 
-The shared rule gives each particle an independent back-and-forth path. Every frame calculates position from its rest position, so movement does not accumulate into drift. Music changes amplitude smoothly; sustained energetic passages can release the landscape into wider oscillations, and quieter passages allow it to reconstruct. The implementation uses a continuously integrated rhythm-dependent clock in the frequency term, so changing speed does not reset the phase or cause position jumps. The horizon veil and decorative airborne motes retain their existing behavior.
+The shared rule gives each particle an independent back-and-forth path. Every frame calculates position from its rest position, so movement does not accumulate into drift. Music changes amplitude smoothly within a bounded local range, and quieter passages let activity contract. The implementation uses a continuously integrated clock scaled by the listener's animation-speed setting, so changing speed does not reset the phase or cause position jumps. The horizon veil and decorative airborne motes retain their existing behavior.
 
-Motion amplitude and structural release are separate controls within the response mechanism. A short loud beat can increase movement without immediately dissolving the whole scene; sustained high energy or continuous fast rhythmic activity progressively releases its structure. AudioWorklet tracks rhythm independently of rendering frame rate, with a spectral fallback. Night/Dusk switching retains these mappings.
+Motion amplitude and small local looseness are tracked separately. Default movement remains bounded even during strong or fast music. The wider, interwoven effect is an optional extension enabled by extreme user settings; the fixed-axis formula above describes the default motion. AudioWorklet tracks rhythm independently of rendering frame rate, with a spectral fallback. Night/Dusk switching retains these mappings.
 
 
 ## Project files
@@ -70,6 +84,7 @@ Motion amplitude and structural release are separate controls within the respons
 | `dist/particle-meadow.js` | Continuous terrain, grass distribution and chains, sampled tree geometry |
 | `dist/scene.js` | Particle rendering, lighting, sky, static shadows, camera and mode selection |
 | `dist/app.js` | Local playback, audio connections, UI and lighting-button events |
+| `dist/controls.js` | Live visual settings, panel folding, player hover reveal and reset |
 | `dist/index.html`, `dist/style.css` | English interface, responsive layout and frosted player |
 | `dist/audio-features.js`, `dist/rhythm-*.js` | Audio analysis and audio-clock timing |
 | `dist/assets/` | Bundled Three.js runtime, licensed tree assets and demo recordings |
@@ -78,7 +93,7 @@ Motion amplitude and structural release are separate controls within the respons
 
 ## Validation and limits
 
-Run `npm run check` for syntax and **13 audio/motion tests**. Historical browser reports in `docs/` describe earlier saved revisions. The current motion revision uses fixed XY-axis oscillation, stronger trunk motion, and sustained fast-rhythm release and acceleration. Normal UI hides all diagnostic overlays. The default demo is now the creator-selected MP4 recording; earlier 48-second demo validation records do not describe this new asset.
+Run `npm run check` for syntax and **10 audio/motion tests**. Historical browser reports in `docs/` describe earlier saved revisions. The default motion revision uses bounded XY-axis oscillation and preserves the landscape structure. Browser checks have also verified live settings, reset, both folding interfaces and the optional maximum-settings effect. Normal UI hides all diagnostic overlays. The default demo is now the creator-selected MP4 recording; earlier 48-second demo validation records do not describe this new asset.
 
 The result is stylized point-cloud art, not a photograph or trained Gaussian-splat reconstruction. Tree lighting normals are approximate. The shadow map uses the vegetation's rest pose and does not follow every music-driven movement. Particle shadow softness and detail are limited by a 2048-pixel depth map. First-load asset size and GPU performance vary by device; smaller displays reduce samples and sustained low frame rates reduce pixel ratio. No universal frame-rate claim is made.
 
@@ -99,7 +114,7 @@ This feedback reflects the creator's summary of user trials, rather than validat
 
 **Previously requested controls**
 
-Earlier users also requested separate settings for particle size, movement speed and movement distance. These remain future improvements; the current interface retains its sensitivity and movement controls.
+Earlier users requested separate settings for particle size, movement speed and movement distance. These have now been implemented in the right-hand Controls panel, alongside the additional visual settings described above. Foldable panels respond to the desire for a less obstructed listening view. The creator judged the updated experience substantially better than the previous version; this does not replace further user trials across different recordings.
 
 ## Credits
 
